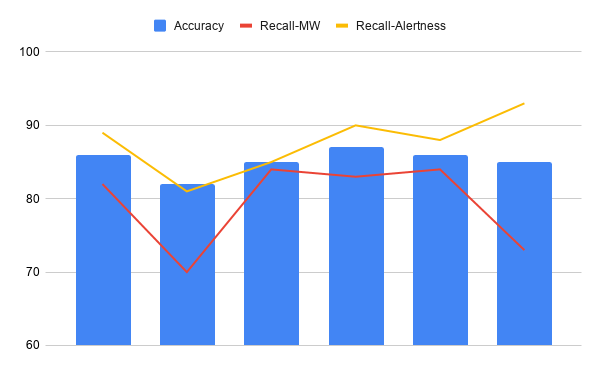
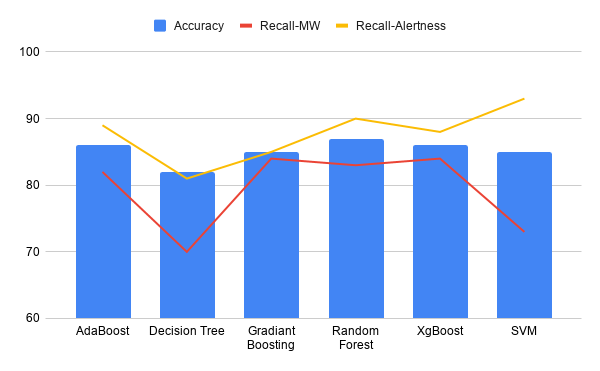
Updates from Overleaf

diff --git a/Chapters/Chapter6.tex b/Chapters/Chapter6.tex
@@ -12,7 +12,7 @@
 %	SECTION 1
 %----------------------------------------------------------------------------------------
 
-\section{Result}
+% \section{Result}
 Analysis of the features extracted from the acquired EEG signals of both subjects led to the identification of multiple mind wandering episodes on each session.We have used different classifiers to classify the data and compared their accuracy.The result of different classifiers shown in the below tables.
 
 To understand the result we have know some terms.That are -
@@ -36,8 +36,8 @@ TN: True Negative value \\
 TP: True positive value \\
 FP:False Positive value \\
 
-\subsection{Results of Adaptive boost  :}
-we have used decision tree classifier with maximum depth 10 and n\_estimator is equal to 100.Table \ref{tab:adaboost_res} shows the results.
+\section{Results of Adaptive boost  }
+we have used decision tree classifier with maximum depth 3 and n\_estimator is equal to 200.Table \ref{tab:adaboost_res} shows the results.
 The hyperparameter are sat as follows:\\
 maximum depth of decision trees=3,\\
 n\_estimators=200\\
@@ -51,9 +51,9 @@ n\_estimators=200\\
             \hline
              & Precision & Recall & F1 Score & Support \\ 
             \hline
-              Alertness   & 0.88 & 0.89 & 0.89 & 114  \\
-              Mind Wandering   & 0.85 & 0.84 & 0.85 & 82 \\
-              accuracy &  &  & 0.87 & 196 \\
+              Alertness   & 0.88 & 0.87 & 0.88 & 114  \\
+              Mind Wandering   & 0.82 & 0.84 & 0.83 & 82 \\
+              accuracy &  &  & 0.86 & 196 \\
               \hline
               \hline
         \end{tabular}
@@ -63,7 +63,7 @@ n\_estimators=200\\
     \label{tab:adaboost_res}
 \end{table}
 
-\subsection{Results of Decision tree}
+\section{Results of Decision tree}
 For the accuracy and other training details see Table \ref{tab:decison_tree_res}.
 \begin{center}
     \begin{table}[ht]
@@ -89,7 +89,7 @@ For the accuracy and other training details see Table \ref{tab:decison_tree_res}
 \end{center}
 
 
-\subsection{Results of Gradient Boosting classifier }
+\section{Results of Gradient Boosting classifier }
 Table \ref{tab:Gradient_Boosting_classifier_res} shows the data obtained during testing trained Gradient Boosting classifier .
 \begin{table}[ht]
     \centering
@@ -111,7 +111,7 @@ Table \ref{tab:Gradient_Boosting_classifier_res} shows the data obtained during 
     \label{tab:Gradient_Boosting_classifier_res}
 \end{table}
 
-\subsection{Results of Random Forest }
+\section{Results of Random Forest }
 You can see the accuracy,precision and recall of Random Forest Classifier in Table \ref{tab:rf_res}.The highest accuracy measured at n\_estimator=102. 
 \begin{table}[ht]
     \centering
@@ -132,7 +132,7 @@ You can see the accuracy,precision and recall of Random Forest Classifier in Tab
     \label{tab:rf_res}
 \end{table}
 
-\subsection{Results of XgBoost }
+\section{Results of XgBoost }
 In Table \ref{fig:xg_boost}, we have listed the accuracy, precision,recall and f1-score for mind wandering and alertness state.  
 \begin{table}[ht]
     \centering
@@ -153,7 +153,7 @@ In Table \ref{fig:xg_boost}, we have listed the accuracy, precision,recall and f
     \label{tab:xqboost_res}
 \end{table}
 
-\subsection{Results of Support Vector Machine }
+\section{Results of Support Vector Machine }
 The optimal accuracy we got when hyper-parameters sat as shown below:\\
 kernel: rbf,\\
 gamma: scale,\\
@@ -178,5 +178,5 @@ and the results are shown in Table \ref{tab:SVM_res}.
     \label{tab:SVM_res}
 \end{table}
 %-----------------------------------
-%	SUBSECTION 1
+%	section 1
 %-----------------------------------

diff --git a/Chapters/Chapter7.tex b/Chapters/Chapter7.tex
@@ -18,7 +18,7 @@ We have analysed the EEG signals from 64 channels to detect the mind wandering s
     \subfigure[]{\includegraphics[width=0.49\textwidth]{Pictures/Accuracy vs. Classsifiers (1).png}}
     \subfigure[]{\includegraphics[width=0.49\textwidth]{Pictures/Accuracy, F1-Score-MW and F1-Score-Alertness.png}}
     \subfigure[]{\includegraphics[width=0.49\textwidth]{Pictures/Accuracy, Precision-MW and Precision-Alertness.png}}
-    \subfigure[]{\includegraphics[width=0.49\textwidth]{Pictures/chart (1).png}}
+    \subfigure[]{\includegraphics[width=0.49\textwidth]{Pictures/chart.png}}
     
     \subfigure[]{\includegraphics[width=0.49\textwidth]{Pictures/Accuracy, Precision-Alertness, Recall-Alertness and F1-Score-Alertness (1).png}}
     \subfigure[]{\includegraphics[width=0.49\textwidth]{Pictures/Accuracy, Precision-MW, Recall-MW and F1-Score-MW.png}}
@@ -29,4 +29,4 @@ We have analysed the EEG signals from 64 channels to detect the mind wandering s
 \end{figure}
 
 
-The highest accuracy, that we got by analysing EEG-signals from 64 channels using 6 different basic machine learning  classifiers is 87\% which is higher than any research have been done in this area.We have got the highest accuracy on Random Forest classifier.Before applying classifier we extracted MW \& alertness data from continuous channel signals, normalized them,extracted feature set for all 64 channels of size 52 and flattened them by concatenating each channel data.Then we have applied classifiers.By comparing all the results we can safely deduce that by using XgBoost,Random Forest and Ada-Boost ML classifiers to detect MW and alertness state with a 86-87 \% accuracy.
+The highest accuracy, that we got by analysing EEG-signals from 64 channels using 6 different basic machine learning  classifiers is 87\% which is higher than any research have been done in this area.We have got the highest accuracy on Random Forest classifier.Before applying classifier we extracted MW \& alertness data from continuous channel signals, normalized them,extracted feature set for all 64 channels of size 52 and flattened them by concatenating each channel data.Then we have applied classifiers.By comparing all the results we can safely deduce that we can use XgBoost,Random Forest and Ada-Boost ML classifiers to detect MW and alertness state with a 86-87 \% accuracy.

diff --git a/Chapters/Chapter2.tex b/Chapters/Chapter2.tex
@@ -28,4 +28,4 @@ Furthermore, reviewing the prior research under this field, a good sum of work h
 
 \section{Aims And Objectives}
 
-In this project, we explored basic machine learning techniques to predict the mind wandering using EEG signals.In order to achieve a higher accuracy, classification of different combinations of features were done.XgBoost gave a higher accuracy than random forest so applying two classification methods aided our precision level. The main factor in our paper is that we have worked with EEG signals solely to detect MW and has also achieved a promising result which thus elevated our method over other research method under this field.
+In this project, we explored basic machine learning techniques to predict the mind wandering using EEG signals.In order to achieve a higher accuracy, classification of different combinations of features were done.Random forest classifier gave a higher accuracy than any other ML classifier so applying different classification methods aided our precision level. The main factor in our paper is that we have worked with EEG signals solely to detect MW and has also achieved a promising result which thus elevated our method over other research method under this field.

diff --git a/Chapters/Chapter5.tex b/Chapters/Chapter5.tex
@@ -271,7 +271,7 @@ Here,\\
 S:class name\\
 c: types of values (2 for binary ) \\
 $p_i$ : count of values of $i^{th}$ type\\
-\subsubsection{Gain} : gain in entropy after splitting in to subsets
+\subsubsection{Gain}  it is the change in entropy after splitting in to subsets
     \begin{equation}
         G(T,X) = E(T) - E(T,X)
         \label{gain}
